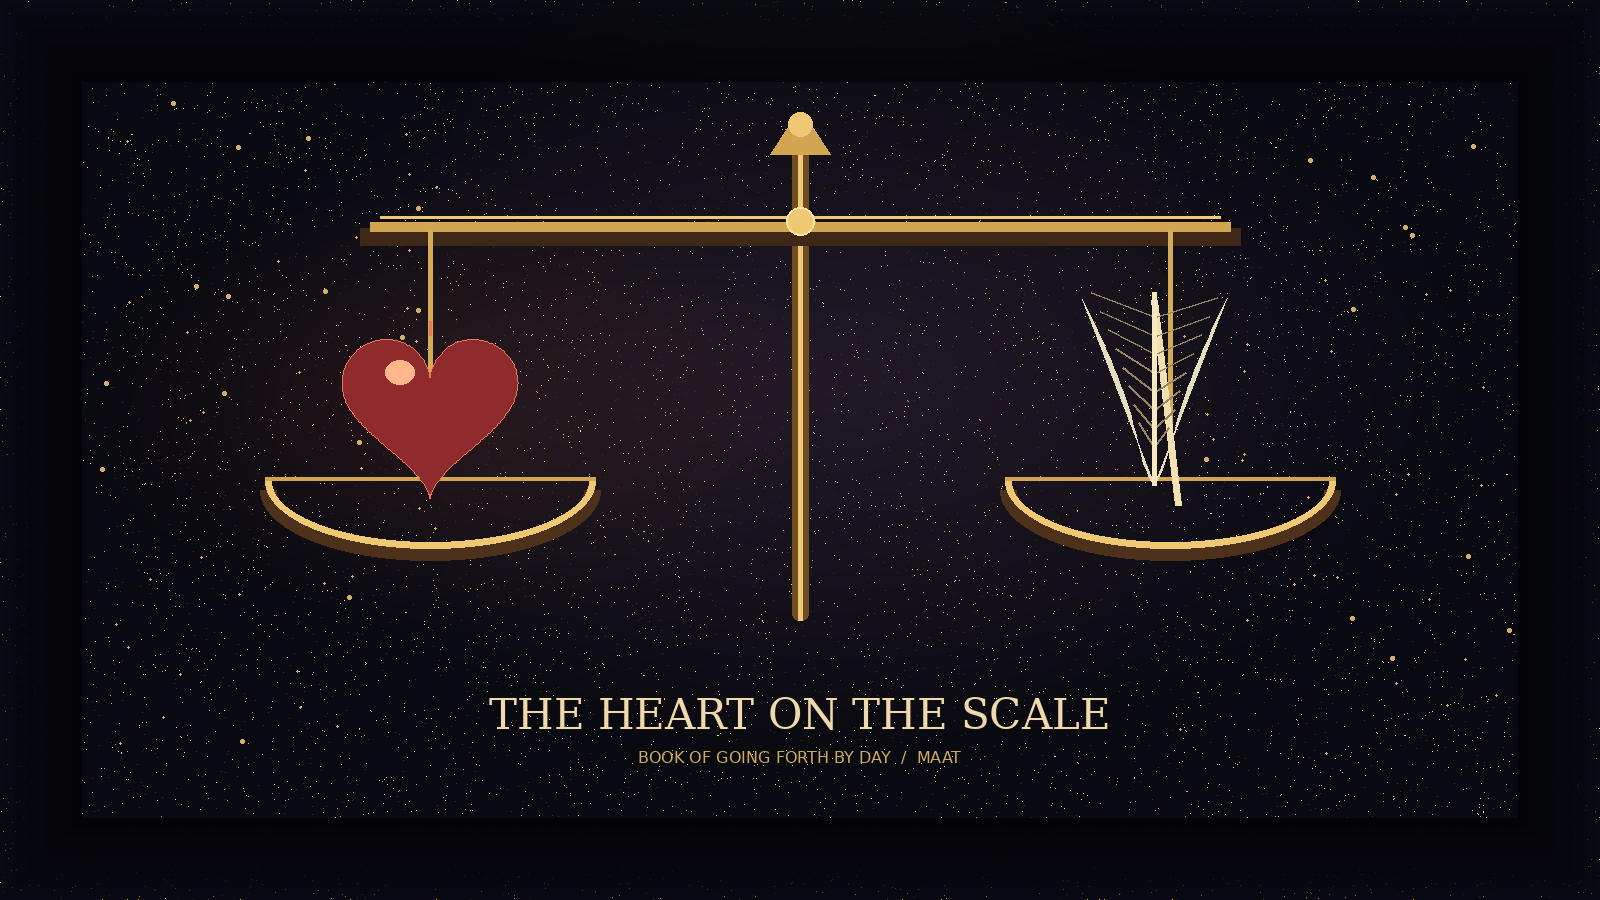
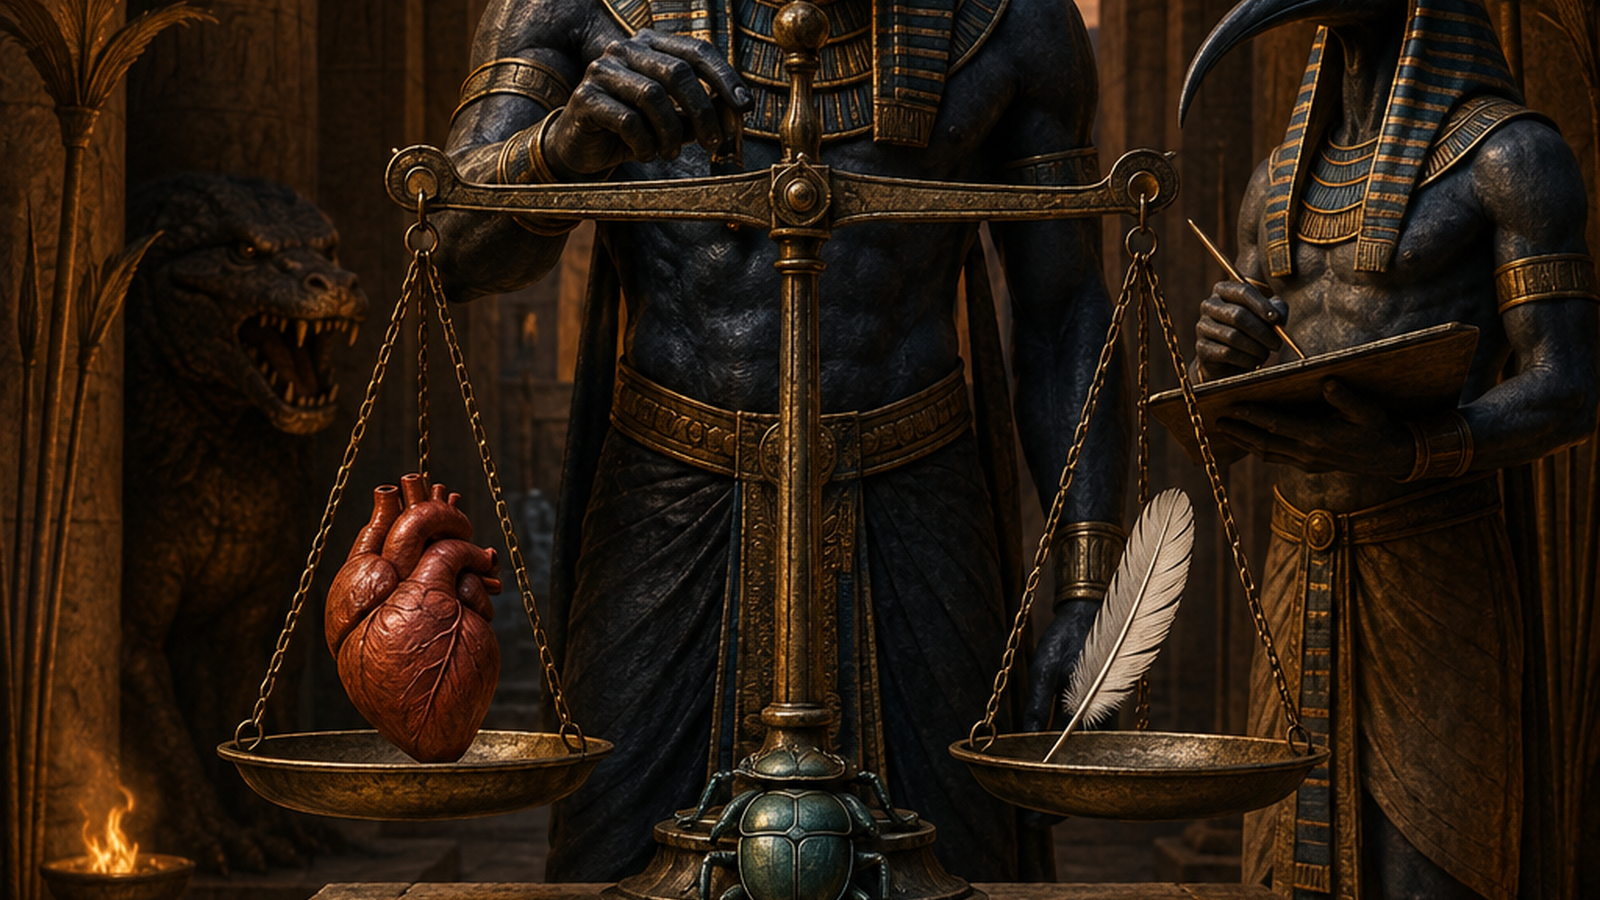
fix: render recent journal heroes

diff --git a/src/app/journal/page.tsx b/src/app/journal/page.tsx
@@ -227,7 +227,7 @@ export default function JournalPage() {
           <div className="grid grid-cols-1 md:grid-cols-2 lg:grid-cols-3 gap-6 mb-16">
             {paginatedPosts.map((post, i) => (
               <SectionReveal key={post.slug} delay={i * 0.04}>
-                <PostCard post={post} heroImage={HERO_IMAGES[post.slug]} />
+                <PostCard post={post} heroImage={post.heroImage || HERO_IMAGES[post.slug]} />
               </SectionReveal>
             ))}
           </div>
@@ -311,7 +311,7 @@ function PostCard({ post, heroImage }: { post: (typeof blogPosts)[0]; heroImage?
   return (
     <Link href={`/journal/${post.slug}`} className="ut-card block overflow-hidden group" style={{ padding: 0 }}>
       {/* Hero image or gradient band */}
-      <div className="h-40 relative overflow-hidden">
+      <div className="aspect-video relative overflow-hidden">
         {heroImage && !imgError ? (
           <Image
             src={heroImage}
